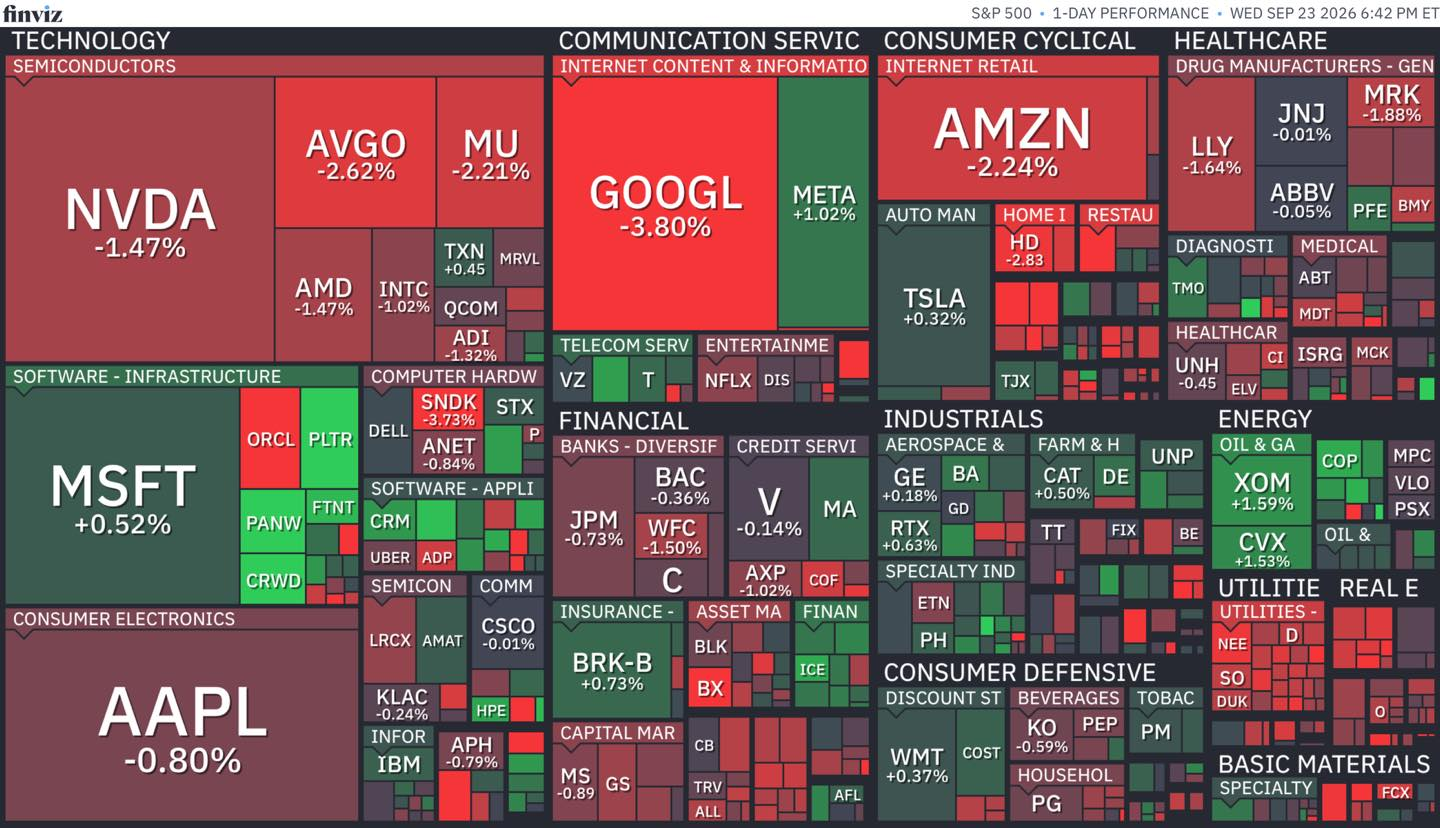
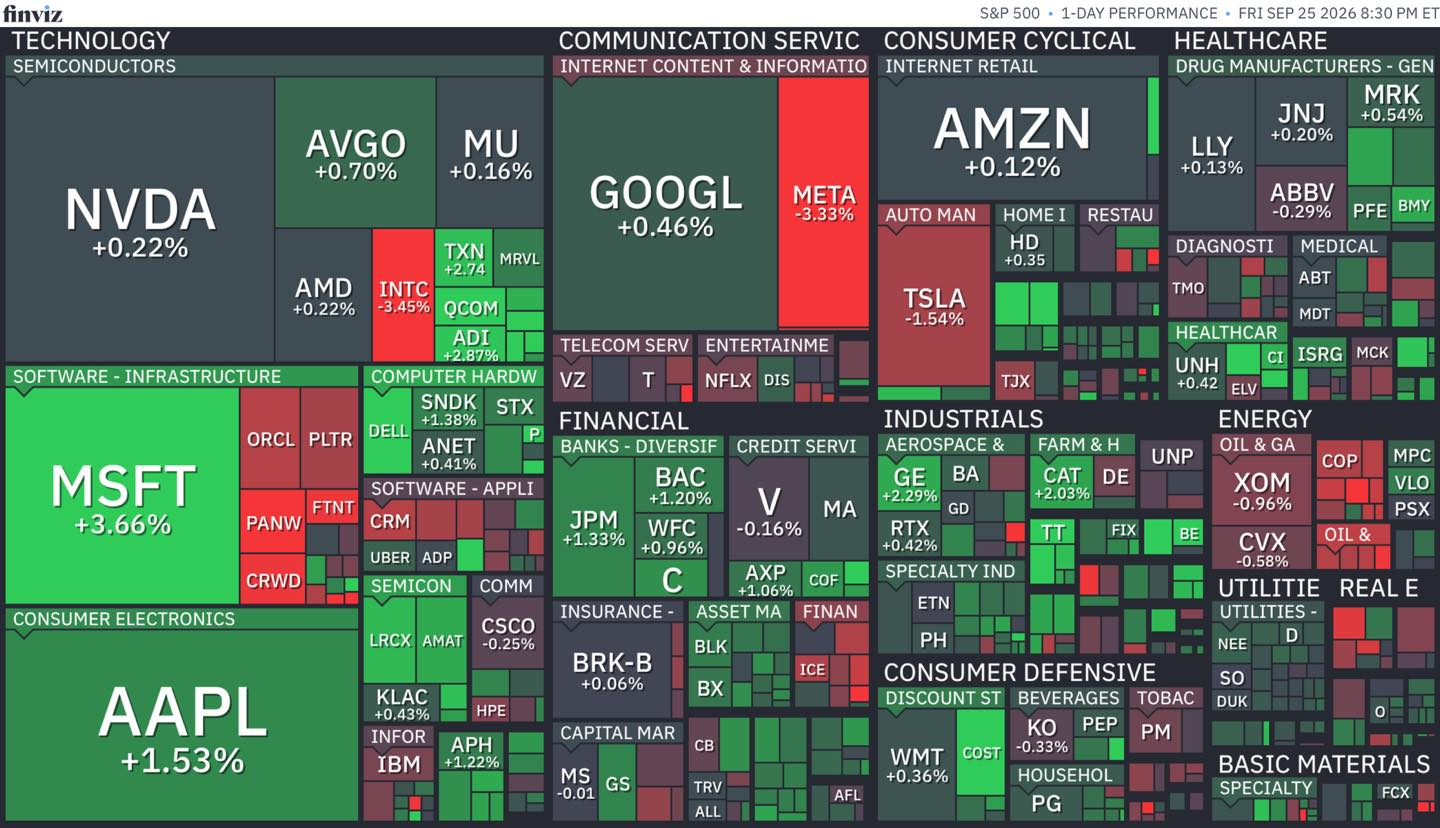
Daily brief 2026-09-27 (週日版): 全週結算——標普+1.2%/納指+2.0%/科技板塊+3.5%領漲 vs 10年5.163%2007新高+30年5.488%2004新高——王董:背離不可能永遠持續｜AKAM×Anthropic 116億7年硬約vs 55億CapEx(FB解密:由搶CapEx轉FCF轉化)｜AI企業債利差115bps vs整體78bps＝債市抽緊資本成本｜SCHL-7.1%/CMCSA劈價至18:價值陷阱Cheap≠Bottom、E融化緊P/E再低唔係底｜週一催化劑:Greer關稅細節公布+恒指24,500保衛戰｜布蘭特97.47沿用週五+BTC週日

diff --git a/index.html b/index.html
@@ -314,8 +314,8 @@
     <div class="t2">Daily Market Briefing</div>
   </div>
 </div>
-<div style="text-align:center;"><span class="date-badge">2026年9月26日 星期六（週末更新）</span></div>
-<div style="text-align:center;font-size:0.78em;color:var(--muted);margin:4px 0 2px;">美股／債／油／金／匯／BTC為週五（9/25）收市 · 恒指為週五（9/25）收市（下週一09:30開市）· 📅 <strong>油崩8.6%擠出地緣溢價＋峰會散水：Pageantry Not Substance</strong></div>
+<div style="text-align:center;"><span class="date-badge">2026年9月27日 星期日（週末更新）</span></div>
+<div style="text-align:center;font-size:0.78em;color:var(--muted);margin:4px 0 2px;">週日休市 · 數據沿用週五（9/25）收市（美股／債／油／金／匯 · 恒指下週一09:30開市）· BTC為週日晨即時價 · 📅 <strong>油崩8.6%擠出地緣溢價＋峰會散水：Pageantry Not Substance——週一中美關稅細節公布</strong></div>
 
 <!-- 五格 -->
 <div class="summary-grid">
@@ -334,7 +334,7 @@
   <div class="summary-box">
     <div class="label">💹 市場定價</div>
     <div class="value">道指51,828.62（+0.93%、+479點）｜標普7,743.41（+0.51%）｜納指27,068.72（+0.48%）｜費半12,668.93（+1.41%）<br>布蘭特<strong>97.47（-8.56%、穿100）</strong>｜期金4,320.5（+0.52%）｜10年<strong>5.17%</strong>（-1點子）＋30年<strong>5.49%（+2點子、2004年來高位區不變）</strong></div>
-    <div style="font-size:0.72em;color:var(--muted);margin-top:2px;">美元101.04（-0.25%、連升斷纜）｜日圓157.18（兩週最大單日反彈）｜比特幣84,088（-0.34%；週六晨live約84,075）｜VIX 14.87（-5.11%）</div>
+    <div style="font-size:0.72em;color:var(--muted);margin-top:2px;">美元101.04（-0.25%、連升斷纜）｜日圓157.18（兩週最大單日反彈）｜比特幣84,088（週五收-0.34%；週日晨live約84,268）｜VIX 14.87（-5.11%）</div>
   </div>
   <div class="summary-box">
     <div class="label">📝 一句話</div>
@@ -413,7 +413,7 @@
     <div class="bar-wrap"><div class="bar-fill" style="width:55%;background:var(--down);"></div></div>
   </div>
 </div>
-<div style="font-size:0.8em;color:var(--muted);margin-bottom:14px;text-align:center;">📡 9/26 06:40核實（美股／債／油／金為9/25週五收市；恒指為9/25收市、下週一09:30開市）：恒指24,510.09（-1.01%、盤中低24,321）｜道指51,828.62（+0.93%）｜標普7,743.41（+0.51%）｜納指27,068.72（+0.48%）｜費半12,668.93（+1.41%）｜VIX 14.87（-5.11%）｜布蘭特97.47（-8.56%、穿100）、WTI 92.44（-2.29%）、Brent-WTI價差收窄至約5美元｜期金4,320.5（+0.52%、三連跌斷纜）｜2年4.81%（-6點子）／5年4.98%（-5點子）／10年5.17%（-1點子）／30年5.49%（+2點子、2004年來高位區）＝美國財政部官方曲線｜美元101.04｜日圓157.18（-1.02%、兩週最大單日反彈）｜BTC 84,088（-0.34%）｜個股實測（9/25收）：DELL 562.89（+5.01%）、MSFT 516.17（+3.66%）、BKNG 163.95（+4.15%）、ABNB 157.47（+4.02%）、Everpure P 126.00（+3.38%、兩日累+14.9%）、AAPL 341.07（+1.53%）、SMH 606.56（+1.01%）、AVGO 352.81（+0.70%）、VRTX 526.19（+0.73%）、EXPE 264.17（+0.92%）、NVDA 225.07（+0.22%）、AMD 630.63（+0.22%）、MU 1,082.28（+0.16%）、MAGS 72.64（+0.18%）、GOOGL 343.92（+0.46%）、TSM 450.61（-0.12%）、PLTR 189.67（-1.52%）、ORCL 137.10（-1.75%、二連挫）、SHOP 142.25（-2.00%）、CRWD 252.13（-2.90%）、TSLA 372.11（-1.54%）、PANW 374.74（-3.89%）、META 751.66（-3.33%）</div>
+<div style="font-size:0.8em;color:var(--muted);margin-bottom:14px;text-align:center;">📡 9/27 07:00核實（週日休市——美股／債／油／金為9/25週五收市沿用；恒指9/25收市、下週一09:30開市；BTC為即時價）：恒指24,510.09（-1.01%、盤中低24,321）｜道指51,828.62（+0.93%）｜標普7,743.41（+0.51%）｜納指27,068.72（+0.48%）｜費半12,668.93（+1.41%）｜VIX 14.87（-5.11%）｜布蘭特97.47（-8.56%、穿100；週六晨亞洲電子盤約97.4企穩）、WTI 92.41（-2.33%）、Brent-WTI價差收窄至約5美元｜期金4,320.5（+0.52%、三連跌斷纜）｜2年4.81%（-6點子）／5年4.98%（-5點子）／10年5.17%（-1點子）／30年5.49%（+2點子、2004年來高位區）＝美國財政部官方曲線｜美元101.04｜日圓157.18（-1.02%、兩週最大單日反彈）｜BTC 84,035（週五收）／週日晨live約84,268｜個股實測（9/25收）：DELL 562.89（+5.01%）、MSFT 516.17（+3.66%）、BKNG 163.95（+4.15%）、ABNB 157.47（+4.02%）、Everpure P 126.00（+3.38%、兩日累+14.9%）、AAPL 341.07（+1.53%）、SMH 606.56（+1.01%）、AVGO 352.81（+0.70%）、VRTX 526.19（+0.73%）、EXPE 264.17（+0.92%）、NVDA 225.07（+0.22%）、AMD 630.63（+0.22%）、MU 1,082.28（+0.16%）、MAGS 72.64（+0.18%）、GOOGL 343.92（+0.46%）、TSM 450.61（-0.12%）、PLTR 189.67（-1.52%）、ORCL 137.10（-1.75%、二連挫）、SHOP 142.25（-2.00%）、CRWD 252.13（-2.90%）、TSLA 372.11（-1.54%）、PANW 374.74（-3.89%）、META 751.66（-3.33%）</div>
 
 <!-- 利率期貨 Gauge -->
 <div class="gauge-block">
@@ -435,13 +435,14 @@
 
 <!-- 最新市況解讀 -->
 <div class="uncle-box">
-  <div class="tag">🗣 最新市況解讀（油崩股升週末版 · 美股9/25週五收市＋Bloomberg 9/25晚間批次）</div>
+  <div class="tag">🗣 最新市況解讀（週日更新 · 美股9/25週五收市＋Bloomberg 9/25晚間批次＋王董週五recap）</div>
+  <div style="text-align:center;margin:8px 0 4px;"><img src="heatmap.jpg" alt="Finviz sector heatmap" style="width:100%;max-width:860px;border-radius:8px;"><div style="font-size:0.72em;color:var(--muted);margin-top:3px;">Finviz S&amp;P 500 板塊熱力圖（9/25）</div></div>
 
   <div class="dim">【Macro】全球大盤與宏觀環境</div>
   <ul>
     <li><span class="hl-red">油價單日崩8.6%——地緣溢價擠出主導週五：</span>布蘭特收<strong>97.47（-8.56%）</strong>、由週四106.6直插、自9/21以來首次收於100下（Yahoo實測）；WTI 92.44（-2.29%）——Brent-WTI價差由約12美元收窄至約5美元＝成品油緊張緩解；伊朗稱已提交<strong>「具體」7日重開荷莫茲計劃</strong>（BBC：Iran offers US deal to reopen Strait of Hormuz in seven days）、美伊分階段協議（MoU）框架推進、Citi與Goldman同日削減布蘭特預測（energynow）；<span class="hl">油價全週過山車：週一100.3→週四106.6→週五97.5——地緣溢價一個session擠清</span>；⚠美伊過去數月類似協議屢次告吹（Bloomberg）——談判失敗＝油價雙向巨震風險仍在。</li>
-    <li><span class="hl">債市：短端鬆、長端唔鬆——三個數字講三個故事：</span>2年4.81%（-6點子）、10年5.17%（-1點子）——油價崩＝通脹恐慌降溫、短債受惠（全球市場報導：受捱沽債券得油價回落支撐）；但<strong>30年5.49%（+2點子）紋風不動＝長端term premium係結構性</strong>——AI基建發債供給＋財政赤字，唔係油價問題；2s10s利差回升至36點子續陡；10月加息機率預測市場66%上下（Kalshi 9/25）——互換定價明年加息3碼不變。</li>
-    <li><span class="hl">峰會散水——Pageantry Not Substance（Bloomberg Evening Briefing頭條）：</span>國宴三道菜＋科技與金融巨頭出席＋Trump送禿鷹雕像＋「never gotten along better」——但<strong>關稅削減與AI溝通熱線冇公佈</strong>；唯一成果（貿易休戰延長2個月至1/10）係習專機落地時Bessent先宣佈（Bloomberg）；Reuters：茶敘＋參觀美國檔案館＋「little sign of progress」；<span class="hl">市場反應溫和：標普照升0.51%＝「冇惡化已當好消息」定價延續；下一個波動源係科技出口管制清單幾時落地</span>。</li>
+    <li><span class="hl">債市：短端鬆、長端唔鬆——三個數字講三個故事：</span>2年4.81%（-6點子）、10年5.17%（-1點子）——油價崩＝通脹恐慌降溫、短債受惠（全球市場報導：受捱沽債券得油價回落支撐）；但<strong>30年5.49%（+2點子）紋風不動＝長端term premium係結構性</strong>——AI基建發債供給＋財政赤字，唔係油價問題；2s10s利差回升至36點子續陡；10月加息機率預測市場66%上下（Kalshi 9/25）——互換定價明年加息3碼不變。<span class="hl-red">更關鍵嘅警號喺信用市場：AI相關企業債利差已闊至約115bps、明顯高於整體投資級約78bps——債市唔係怕AI巨頭違約，而係話畀你知「你要借債起數據中心，我就索更高風險回報」；當資本成本實質抬頭，同一份百億美元合約要先砸幾十億CapEx先交到貨，權益市場肯畀嘅折現值已經唔同咗（FB解密）</span>。</li>
+    <li><span class="hl">峰會散水——Pageantry Not Substance（Bloomberg Evening Briefing頭條）：</span>國宴三道菜＋科技與金融巨頭出席＋Trump送禿鷹雕像＋「never gotten along better」——但<strong>關稅削減與AI溝通熱線冇公佈</strong>；唯一成果（貿易休戰延長2個月至1/10）係習專機落地時Bessent先宣佈（Bloomberg）；Reuters：茶敘＋參觀美國檔案館＋「little sign of progress」；<span class="hl">市場反應溫和：標普照升0.51%＝「冇惡化已當好消息」定價延續；下一個波動源係科技出口管制清單幾時落地</span>。<span class="hl">週一新增催化劑：美國貿易代表Greer稱中美已同意下調部份非敏感商品關稅、完整細節週一公布；另中方AI議題延後至11月深圳峰會續談、雙方準備建立AI事故通報機制；但美方仍考慮就中國產能過剩加徵7.5%關稅——「延長談判時間」多過「貿易戰結束」（王董）</span>。</li>
     <li><span class="hl">日圓兩週最大單日反彈＋美元連升斷纜：</span>日圓157.18（-1.02%）——財務大臣片山口頭干預警報持續＋<strong>Goldman逆轉熊市觀點改睇日圓見150</strong>（Bloomberg）＋BoJ物價趨勢指標加速、支持再度加息（Bloomberg）；美元指數101.04（-0.25%）——五個月最長連升斷纜；<span class="hl">160關口干預風險由「重燃」轉「暫緩」——但日圓套息結構未變、警報未解除</span>。</li>
   </ul>
 
@@ -451,12 +452,16 @@
     <li><span class="hl">AI交易第三階段——「收錢 vs 畀錢」殘酷分化（FB解密）：</span>Everpure（P）分析員日引爆——FY2028營收指引由50.3-50.7億上修至<strong>70-73億美元（+40%）</strong>、Non-GAAP營業利潤由9.4-9.6億翻倍至17-19億＝經營槓桿兌現，股價9/24收+11.2%（盤中曾+18%）、9/25再+3.4%收126.0（兩日累+14.9%，實測）；ORCL二連挫（週四-3.47%、週五-1.75%收137.10）——新墨西哥2.45GW「Project Jupiter」向Blue Owl旗下Stack Infrastructure發<strong>不可抗力通知</strong>：天然氣管道審批延誤→2028投產存疑→180億項目債券折價拋售＝<strong>Time-to-Power（接電時程）卡死、5厘世界利息鐘照跳</strong>；<span class="hl">框架：CapEx Beneficiary（存儲/網絡/冷卻/燃氣輪機——出貨快、定價權、現金流早落袋）vs CapEx Bearer（hyperscaler/DC營運商——買地融資拉電審批全包、DCF受創）——「同一蚊AI capex，邊個最快變現自由現金流，邊個先享有估值溢價」（FB解密）</span>。</li>
     <li><span class="hl">硬體收割者領漲——DELL +5.01%（562.89）：</span>Gemini正式加入XPS產品線（Yahoo Finance）＋Morgan Stanley上調756美元牛市情景機率（24/7 Wall St.）——AI PC週期＋伺服器出貨＝快速變現代表；MSFT <strong>+3.66%（516.17）</strong>Copilot大改版＝應用層變現、收近11個月最高收市（Barron's/MarketWatch：年內高位）；<span class="hl">AI倉位主軸由「算力軍備」轉向「變現與回款」——費半+1.41%反彈中，硬體與應用層跑贏重資產營運商</span>。</li>
     <li><span class="hl">OTA反擊戰——獨家供給跑贏純分發（FB解密驗證）：</span>ABNB <strong>+4.02%（157.47）</strong>、BKNG +4.15%（163.95）vs EXPE +0.92%（264.17）跑輸——FB解密框架「<strong>EXPE持續跑輸ABNB＝市場認可獨家供給（Unique Supply）係終極防線</strong>」第三日持續驗證；META -3.33%（751.66）＝入口股連升後獲利回吐；PANW -3.89%／CRWD -2.90%變現層二連挫——<span class="hl">AI內部輪動加速：同一週內「變現層→入口→收割者」逐日轉倉，無單一主題企得住全週</span>。</li>
+    <li><span class="hl">全週賬面——利率新高下科技股撐起大市（王董）：</span>週五收市後全週結算：標普累升1.2%、納指+2.0%、道指+0.3%；<strong>資訊科技板塊單週+3.5%（XLK實測）居各類股之首</strong>、費半全週+6.3%創短線新高；META單週+12.9%（Muse AI代理期待）；<span class="hl-red">王董核心觀察：10年5.163%（2007年以來新高）＋30年5.488%（2004年以來最高）下，標普與納指距離近期高點仍只有約1%——市場正用科技股與AI成長預期對抗利率壓力，但呢種背離「不可能永遠持續」（王董）</span>。</li>
+    <li><span class="hl">AI價值鏈三層變現階段——AKAM一夜變身（FB解密）：</span>Akamai與Anthropic簽<strong>7年116億美元</strong>雲端承諾（可擴展至206億＋發行約5%認股權證、行使價111.33），週五+3.2%收113.94、全週+9.0%（實測）；但代價係累計約55億美元CapEx（2026年底前追加17億）、收入要到2028年底先達每年17億Full run-rate——<span class="hl">「合約總值≠企業價值，市場計嘅係55億資本投放換到幾多FCF」；三層定價：AKAM＝已鎖定硬合約、MSFT＝生態變現（Copilot整合成超級入口、Intent→Agent→Tools）、INTC（週五-3.45%）＝僅屬探索性產能預期（SK海力士俄亥俄合作仍係Exploratory talks）——溢價維度截然不同（FB解密）</span>。</li>
+    <li><span class="hl-red">價值陷阱雙案例——Cheap≠Bottom（FB解密）：</span>SCHL -7.12%（32.35）：教育業務營收大跌24%至3,040萬＝學區預算收縮、首季收入-4%下全年指引反而唔降＝Q2-Q4要戲劇性加速；CMCSA -0.99%（21.91、全週-3.65%）：KeyBanc直降Underweight、目標價劈至18美元（Citi亦削至27.5）——寬頻流失加速（2027年淨流失估擴至66.5萬戶）＋30-40美元/月1Gbps價格戰＋主題樂園人流放緩；<span class="hl">拆解：現價25÷EPS4＝6.25x「極平」，但若E跌至3，同樣倍數合理價自動跌去18.75——「股價跌唔係因為Multiple收縮，而係損益表個E喺度融化；見底唔係估值最平嗰日，而係盈利預期止跌嗰日」（FB解密）——呢個框架同樣適用於港股高息股篩選：息率高唔等於安全，要睇盈利修訂方向</span>。</li>
   </ul>
 
   <div class="dim">【Company】關鍵個股與事件</div>
   <ul>
     <li><span class="hl">ORCL Time-to-Power教學課（FB解密）：</span>不可抗力通知≠退出項目（公司澄清按進度推進、純為延期時提供付款法律保護）——但市場聞到嘅係執行風險真身：<strong>接電與供能時程」係集中式AI算力最致命硬傷——唔係GPU唔夠、係電同審批唔夠</strong>；同日日本金融廳宣布加強審查大型銀行／壽險對AI數據中心融資（Bloomberg）——<span class="hl">AI capex槓桿鏈嘅監管視線正式出現、發債最兇嘅名字估值最脆弱</span>。</li>
     <li><span class="hl">MSFT +3.66%／DELL +5.01%雙引擎：</span>微軟Copilot全面改版獲市場認可（CNBC：stock deservedly soars）——應用層AI變現再下一城；Dell Gemini×XPS＋MS上調目標——<span class="hl">「收割者」組合（出貨快＋現金流早落袋）係5厘世界嘅估值避風港（FB解密）</span>；DELL董事Egon Durban週五以548.40美元減持1,850股（23F披露）——內部人套現 vs 外資上調目標並存，留意。</li>
+    <li><span class="hl">AKAM 113.94（+3.2%、全週+9.0%）：</span>Anthropic 7年116億美元硬合約落袋——由「CDN＋網安＋雲期權」升格為手握頂級AI客戶長約嘅算力引擎；但2026年底前要追加約17億CapEx、2028年底先有每年17億Full run-rate收入——<span class="hl">「有需求仍要計資本投入」：市場落緊注嘅係FCF轉化率、唔係合約金額（FB解密）</span>。</li>
     <li><span class="hl">ANZ重整——香港/新加坡/澳洲至少10名高層銀行家10月前離職（Bloomberg）：</span>澳資行架構重整下亞洲區影響直接——區內財富管理格局微調；Schnabel提前離開ECB執委會＝Lagarde接班人之爭白熱化（Bloomberg）——歐洲央行政策連續性風險添變數。</li>
     <li><span class="hl">Radiant World事件（Bloomberg）：</span>新加坡法官質疑其「被欠逾10億美元客戶款項」申索——法官點出疑似「欺诈行為模式」、法院已任命KPMG重組專家接管（三菱日聯銀行申請獲批）——大宗商品貿易圈信貸風險個案、留意對商品融資市場情緒外溢。</li>
   </ul>
@@ -478,8 +483,8 @@
 
   <div class="dim">📌 總結</div>
   <ul>
-    <li><span class="hl-red">主線：地緣溢價單日擠清、長端問題係結構：</span>布蘭特97.47、10年5.17%、30年5.49%三個數字講三個故事——油價定價「協議將至」、短端定價「通脹恐慌退潮」、長端定價「AI發債＋財政term premium不變」；<span class="hl">下週美伊談判任何反覆＝油價即時重新定價風險；「股市裝睡」暫時贏咗一仗、但30年5.49%唔郁＝估值重修壓力未散（FB解密框架）</span>。</li>
-    <li><span class="hl">AI產業線：第三階段分化加速（FB解密）：</span>收割者（DELL硬體/Everpure存儲/MSFT應用層——出貨快、回款快）vs 承擔者（ORCL/hyperscaler——Time-to-Power＋利息鐘）；<span class="hl">「5厘世界市場只認邊個收錢先」——基金配置上變現層與硬體供應鏈優先於重資產營運商；法巴科技創新（U45816）持倉留意係咪已輪動到收割與變現層</span>。</li>
+    <li><span class="hl-red">主線：地緣溢價單日擠清、長端問題係結構：</span>布蘭特97.47、10年5.17%、30年5.49%三個數字講三個故事——油價定價「協議將至」、短端定價「通脹恐慌退潮」、長端定價「AI發債＋財政term premium不變」；<span class="hl">下週美伊談判任何反覆＝油價即時重新定價風險；「股市裝睡」暫時贏咗一仗、但30年5.49%唔郁＝估值重修壓力未散（FB解密框架）；王董講得更白：債息創多年新高而標普納指距高位僅約1%——科技股同利率背離「不可能永遠持續」、殖利率升速放慢先係股市續升前提（王董）</span>。</li>
+    <li><span class="hl">AI產業線：第三階段分化加速（FB解密）：</span>收割者（DELL硬體/Everpure存儲/MSFT應用層——出貨快、回款快）vs 承擔者（ORCL/hyperscaler——Time-to-Power＋利息鐘）；AKAM 116億Anthropic硬約＝「合約落袋」層、但市場即刻精算55億CapEx代價——<span class="hl">「5厘世界市場只認邊個收錢先」＋AI企業債利差115bps vs 整體78bps＝債市同步收緊資本成本；基金配置上變現層與硬體供應鏈優先於重資產營運商；法巴科技創新（U45816）持倉留意係咪已輪動到收割與變現層；篩股加一條：盈利修訂方向企穩先至撈底（SCHL/CMCSA價值陷阱課——E融化緊嘅時候P/E再低都唔係底）（FB解密）</span>。</li>
     <li><span class="hl">利率結構線：短端受惠、長端企硬：</span>2年4.81%（-6點子）＝油崩紅利即時反映；30年5.49%（+2點子）＝term premium照收；<span class="hl">短端4.8厘＝現金係資產（短存/浮息/超短債滾動）；長債5.3%前唔急、「鎖30年要更高補償」邏輯不變；下週PCE／就業＝「加幾多次」定價裁判</span>。</li>
     <li><span class="hl">港股線：24,500保衛戰下週一開打：</span>24,510三連跌貼住支持——24,500-24,300分注區、失24,300看24,000；<span class="hl">恒生高息股30（U45624、7.52%）等24,400-24,500區分注第一注、24,000下第二注；收復25,000先轉正面；高息藍籌做核心、科技跟費半外溢但利率壓力同在</span>。</li>
     <li><span class="hl">油價線：97.5上下企穩與否定後市：</span>伊朗7日方案若兌現＝90-95區間測試、Citi/Goldman已削預測；若破裂＝106-108報復性反彈；<span class="hl">油掛鉤產品兩邊都唔好追——等方向確認先分注；中海油等95-97企穩或90-92極端位</span>。</li>
@@ -488,7 +493,7 @@
 
   </div>
 
-  <div style="margin-top:12px;font-size:0.76em;color:var(--muted);border-top:1px dashed var(--border);padding-top:8px;">ℹ 來源：Bloomberg（9/25 Evening Briefing Asia批次：峰會Pageantry Not Substance——禿鷹雕像/國宴/關稅與AI熱線冇公佈、貿易休戰延長2個月（Bessent會前宣佈）、美伊探索分階段協議布蘭特跌穿106、日圓Katayama口頭干預兩週最大單日升幅、Goldman逆轉睇日圓150、BoJ物價趨勢指標加速支持加息、日本金融廳加強審查AI數據中心融資、ANZ港/星/澳高層離職、Schnabel離開ECB＝Lagarde接班之爭、Radiant World10億美元申索被新加坡法官質疑）＋Yahoo Finance實測（9/25收市：標普+0.51%／納指+0.48%／道指+0.93%／費半+1.41%；恒指9/25收24,510.09；DELL/MSFT/BKNG/ABNB/P/EXPE/NVDA/AMD/MU/AVGO/TSM/GOOGL/AAPL/TSLA/ORCL/SHOP/PANW/CRWD/PLTR/VRTX個股；XLI/XLK/XLF/XLV等11板塊ETF；期金4,320.5；布蘭特97.47／WTI 92.44；VIX 14.87；美元101.04／日圓157.18／BTC 84,088）＋美國財政部官方曲線（9/25收：2年4.81%、5年4.98%、10年5.17%、30年5.49%）＋BBC/Reuters/energynow頭條（伊朗「具體」7日重開荷莫茲方案、Citi/Goldman削布蘭特預測、峰會茶敘＋檔案館「little sign of progress」、10月加息機率66%）＋FB解密系列（【美股解密】9/25 13:48：Everpure vs Oracle——AI交易第三階段CapEx收割者vs承擔者、Time-to-Power利息鐘、5厘世界「邊個收錢先」框架；【美股解密】9/25 01:01：OTA脫媒——Destination vs Rail、ABNB獨家供給防線、2C平台三層拷問）＋王董大盤籌碼（今日暫缺——最新post僅覆蓋9/24美股session）。</div>
+  <div style="margin-top:12px;font-size:0.76em;color:var(--muted);border-top:1px dashed var(--border);padding-top:8px;">ℹ 來源：Bloomberg（9/25 Evening Briefing Asia批次：峰會Pageantry Not Substance——禿鷹雕像/國宴/關稅與AI熱線冇公佈、貿易休戰延長2個月（Bessent會前宣佈）、美伊探索分階段協議布蘭特跌穿106、日圓Katayama口頭干預兩週最大單日升幅、Goldman逆轉睇日圓150、BoJ物價趨勢指標加速支持加息、日本金融廳加強審查AI數據中心融資、ANZ港/星/澳高層離職、Schnabel離開ECB＝Lagarde接班之爭、Radiant World10億美元申索被新加坡法官質疑）＋Yahoo Finance實測（9/25收市：標普+0.51%／納指+0.48%／道指+0.93%／費半+1.41%；恒指9/25收24,510.09；DELL/MSFT/BKNG/ABNB/P/EXPE/NVDA/AMD/MU/AVGO/TSM/GOOGL/AAPL/TSLA/ORCL/SHOP/PANW/CRWD/PLTR/VRTX個股；XLI/XLK/XLF/XLV等11板塊ETF；期金4,320.5；布蘭特97.47／WTI 92.44；VIX 14.87；美元101.04／日圓157.18／BTC 84,088）＋美國財政部官方曲線（9/25收：2年4.81%、5年4.98%、10年5.17%、30年5.49%）＋BBC/Reuters/energynow頭條（伊朗「具體」7日重開荷莫茲方案、Citi/Goldman削布蘭特預測、峰會茶敘＋檔案館「little sign of progress」、10月加息機率66%）＋FB解密系列（【美股解密】9/25 13:48：Everpure vs Oracle——AI交易第三階段CapEx收割者vs承擔者、Time-to-Power利息鐘、5厘世界「邊個收錢先」框架；【美股解密】9/25 01:01：OTA脫媒——Destination vs Rail、ABNB獨家供給防線、2C平台三層拷問；【美股解密】9/26 07:33：AI企業債利差115bps vs 整體78bps——債市主宰估值、FCF轉化審查；【美股解密】9/26 14:54：AKAM×Anthropic 116億7年硬約vs 55億CapEx、MSFT變現閉環、INTC僅探索性預期；【美股解密】9/27 01:44：SCHL/CMCSA價值陷阱——Cheap≠Bottom、分母E融化、盈利修訂企穩先係底）＋王董大盤籌碼（9/26 08:31週五recap：全週標普+1.2%/納指+2%/科技板塊領漲、債息多年新高下美股背離「不可能永遠持續」、10月加息機率約64%、Greer稱關稅細節週一公布、美方擬就產能過剩加徵7.5%關稅、AI議題延至11月深圳峰會＋AI事故通報機制；附Finviz heatmap（9/25））。</div>
 </div>
 
 <!-- 今日策略 -->
@@ -560,13 +565,16 @@
   <span class="wl-hot">OTA反擊第二日：ABNB+4.02%/BKNG+4.15% vs EXPE+0.92%——獨家供給防線驗證持續、META-3.33%入口股回氣（FB解密）</span>｜
   <span class="wl-hot">日圓157.18兩週最大單日反彈——Katayama口頭干預＋Goldman轉睇150＋BoJ加息數據；160風險暫緩未除</span>｜
   <span class="wl-hot">10月加息機率66%上下＋互換定價明年3碼——下週PCE/就業係「加幾多次」定價裁判</span>｜
-  <span class="wl-hot">金價4,320四連跌斷纜反彈——4,250-4,280支持帶未失；BTC 84,088週末留意84,000整數關</span>｜
+  <span class="wl-hot">金價4,320四連跌斷纜反彈——4,250-4,280支持帶未失；BTC 84,035（週五收）／週日晨live約84,268——84,000整數關上整固</span>｜
+  <span class="wl-hot">週一催化劑：中美非敏感商品關稅下調細節公布（Greer）＋恒指24,500保衛戰開打；AI議題延至11月深圳峰會、AI事故通報機制籌建（王董）</span>｜
+  <span class="wl-hot">AKAM×Anthropic 116億7年硬約——AI估值審查由「搶CapEx」轉「FCF轉化」：55億資本投放2028年先有Full run-rate；AI企業債利差115bps vs 整體78bps＝債市同步抽緊（FB解密）</span>｜
+  <span class="wl-hot">價值陷阱警示（FB解密）：SCHL -7.1%（教育營收-24%）／CMCSA遭KeyBanc劈目標價至18美元——「見底唔係P/E最平嗰日、係盈利修訂止跌嗰日」；高息股篩選同一把尺</span>｜
   <span>ANZ港/星/澳10高層離職｜Schnabel離開ECB＝Lagarde接班之爭｜Radiant World 10億美元申索被質疑｜美元101.04連升斷纜｜VIX 14.87</span>
 </div>
 
 <div class="footer">
   以上內容純屬市場情報整合，不構成投資建議。<br>
-  今日焦點：油崩股升週末版——布蘭特-8.56%收97.47（美伊7日重開荷莫茲方案）vs 30年5.49%結構性高位｜標普+0.51%費半+1.41%｜峰會散水：Pageantry Not Substance｜恒指24,510三連跌、下週一24,500保衛戰｜DELL+5.0%/MSFT+3.7%收割者 vs ORCL二連挫（FB解密：AI第三階段收錢vs畀錢）｜日圓157兩週最大反彈｜金4,320止跌<br>
+  今日焦點：週日更新——布蘭特-8.56%收97.47（美伊7日重開荷莫茲方案）vs 30年5.49%結構性高位｜全週標普+1.2%科技板塊+3.5%領漲——債息新高下背離「不可能永遠持續」（王董）｜峰會散水但關稅細節週一公布｜恒指24,510三連跌、週一24,500保衛戰｜AKAM 116億Anthropic硬約＋AI債利差115bps——「邊個真係收到錢」（FB解密）｜SCHL/CMCSA價值陷阱課：E融化緊P/E再低都唔係底<br>
   <span style="color:var(--brand);font-weight:700;">leungkathy</span> · All-in-One Financial Dashboard Suite
 </div>
 </body>
